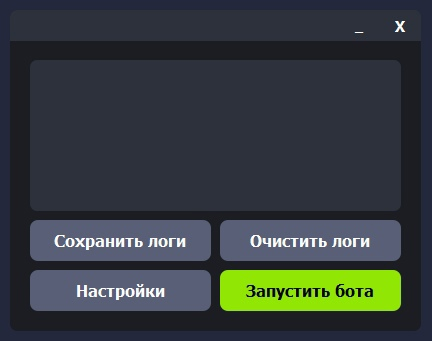
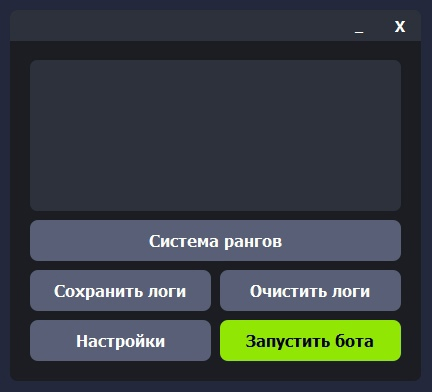
Small Update

Changed region(s): [[0.0602, 0.5279, 0.9329, 0.9384], [0.0301, 0.0587, 0.963, 0.1173], [0.0602, 0.1466, 0.9329, 0.176]]

diff --git a/VK_Bot/server.py b/VK_Bot/server.py
@@ -8,6 +8,43 @@ import config as Config
 import requests
 import json
 
+# Функция для создания аккаунта на сервере
+def create_new_account(login, password):
+	try:
+		data = {
+			'Login': login,
+			'Password': password
+		}
+		server_answer = requests.post(f'{Config.SERVER}/vk_bot/registration', json = data)
+		server_answer_text = json.loads(server_answer.text)
+		if server_answer.status_code == 200:
+			MessageBox(text = server_answer_text['Answer'], button_2 = 'Окей')
+		else:
+			MessageBox(text = server_answer_text['Answer'], button_2 = 'Окей')
+		return server_answer.status_code
+	except requests.exceptions.ConnectionError:
+			MessageBox(text = 'Отсутствует подключение к интернету', button_2 = 'Окей')
+
+# Функция для авторизации аккаунта на сервере
+def authorization_in_account(login, password):
+	try:
+		data = {
+			'Login': login,
+			'Password': password
+		}
+		server_answer = requests.post(f'{Config.SERVER}/vk_bot/authorization', json = data)
+		server_answer_text = json.loads(server_answer.text)
+		if server_answer.status_code == 200:
+			MessageBox(text = server_answer_text['Answer'], button_2 = 'Окей')
+			Config.UNIQUE_KEY = server_answer_text['Unique_Key']
+			Config.PASSWORD = password
+		else:
+			MessageBox(text = server_answer_text['Answer'], button_2 = 'Окей')
+		return server_answer.status_code
+	except requests.exceptions.ConnectionError:
+		MessageBox(text = 'Отсутствует подключение к интернету', button_2 = 'Окей')
+
+# Функция для получения настроек бота от сервере
 def get_bot_settings():
 	try:
 		server_answer = requests.post(f'{Config.SERVER}/vk_bot/files/bot_settings/get', json = {
@@ -23,6 +60,7 @@ def get_bot_settings():
 	except requests.exceptions.ConnectionError:
 		MessageBox(text = 'Отсутствует подключение к интернету', button_2 = 'Окей')
 
+# Функция для обновления настроек бота на сервере
 def update_bot_settings(bot_settings):
 	try:
 		server_answer = requests.post(f'{Config.SERVER}/vk_bot/files/bot_settings/update', json = {
@@ -37,6 +75,7 @@ def update_bot_settings(bot_settings):
 	except requests.exceptions.ConnectionError:
 		MessageBox(text = 'Отсутствует подключение к интернету', button_2 = 'Окей')
 
+# Функция для получения пользоватских команд от сервере
 def get_user_commands():
 	try:
 		server_answer = requests.post(f'{Config.SERVER}/vk_bot/files/user_commands/get', json = {
@@ -52,6 +91,7 @@ def get_user_commands():
 	except requests.exceptions.ConnectionError:
 		MessageBox(text = 'Отсутствует подключение к интернету', button_2 = 'Окей')
 
+# Функция для обновления пользоватских команд на сервере
 def update_user_commands(user_commands):
 	try:
 		server_answer = requests.post(f'{Config.SERVER}/vk_bot/files/user_commands/update', json = {
@@ -66,6 +106,7 @@ def update_user_commands(user_commands):
 	except requests.exceptions.ConnectionError:
 		MessageBox(text = 'Отсутствует подключение к интернету', button_2 = 'Окей')
 
+# Функция для получения логов от сервере
 def get_log():
 	try:
 		server_answer = requests.post(f'{Config.SERVER}/vk_bot/files/log/get', json = {
@@ -81,6 +122,7 @@ def get_log():
 	except requests.exceptions.ConnectionError:
 		MessageBox(text = 'Отсутствует подключение к интернету', button_2 = 'Окей')
 
+# Функция для обновления логов на сервере
 def update_log(log):
 	try:
 		server_answer = requests.post(f'{Config.SERVER}/vk_bot/files/log/update', json = {
@@ -95,6 +137,7 @@ def update_log(log):
 	except requests.exceptions.ConnectionError:
 		MessageBox(text = 'Отсутствует подключение к интернету', button_2 = 'Окей')
 
+# Функция для получения одной записи из DB от сервере
 def find_in_database(sqlite3_command):
 	try:
 		server_answer = requests.post(f'{Config.SERVER}/vk_bot/files/database/find', json = {
@@ -111,6 +154,7 @@ def find_in_database(sqlite3_command):
 	except requests.exceptions.ConnectionError:
 		MessageBox(text = 'Отсутствует подключение к интернету', button_2 = 'Окей')
 
+# Функция для получения нескольких записей из DB от сервере
 def find_all_in_database(sqlite3_command):
 	try:
 		server_answer = requests.post(f'{Config.SERVER}/vk_bot/files/database/find_all', json = {
@@ -127,6 +171,7 @@ def find_all_in_database(sqlite3_command):
 	except requests.exceptions.ConnectionError:
 		MessageBox(text = 'Отсутствует подключение к интернету', button_2 = 'Окей')
 
+# Функция для выполения SQLite3 команд на сервере
 def edit_database(sqlite3_command, values = ()):
 	try:
 		server_answer = requests.post(f'{Config.SERVER}/vk_bot/files/database/edit_database', json = {

diff --git a/VK_Bot/Main_Window/main_window.py b/VK_Bot/Main_Window/main_window.py
@@ -14,11 +14,11 @@ from PyQt5 import QtCore, QtGui, QtWidgets
 class Ui_MainWindow(object):
     def setupUi(self, MainWindow):
         MainWindow.setObjectName("MainWindow")
-        MainWindow.resize(432, 341)
+        MainWindow.resize(432, 392)
         self.centralwidget = QtWidgets.QWidget(MainWindow)
         self.centralwidget.setObjectName("centralwidget")
         self.Window = QtWidgets.QFrame(self.centralwidget)
-        self.Window.setGeometry(QtCore.QRect(10, 10, 411, 321))
+        self.Window.setGeometry(QtCore.QRect(10, 10, 411, 371))
         self.Window.setStyleSheet("QFrame{\n"
 "    border-radius: 7px;\n"
 "    background-color: #1B1D23;\n"
@@ -200,7 +200,7 @@ class Ui_MainWindow(object):
         self.MinimizeWindowButton.setDefault(False)
         self.MinimizeWindowButton.setObjectName("MinimizeWindowButton")
         self.OnOrOffBotButton = QtWidgets.QPushButton(self.Window)
-        self.OnOrOffBotButton.setGeometry(QtCore.QRect(210, 260, 181, 41))
+        self.OnOrOffBotButton.setGeometry(QtCore.QRect(210, 310, 181, 41))
         font = QtGui.QFont()
         font.setPointSize(12)
         font.setBold(True)
@@ -221,7 +221,7 @@ class Ui_MainWindow(object):
 "}")
         self.OnOrOffBotButton.setObjectName("OnOrOffBotButton")
         self.SettingsWindowButton = QtWidgets.QPushButton(self.Window)
-        self.SettingsWindowButton.setGeometry(QtCore.QRect(20, 260, 181, 41))
+        self.SettingsWindowButton.setGeometry(QtCore.QRect(20, 310, 181, 41))
         font = QtGui.QFont()
         font.setPointSize(12)
         font.setBold(True)
@@ -281,7 +281,7 @@ class Ui_MainWindow(object):
         self.LogListWidget.setSelectionRectVisible(False)
         self.LogListWidget.setObjectName("LogListWidget")
         self.SaveLogButton = QtWidgets.QPushButton(self.Window)
-        self.SaveLogButton.setGeometry(QtCore.QRect(20, 210, 181, 41))
+        self.SaveLogButton.setGeometry(QtCore.QRect(20, 260, 181, 41))
         font = QtGui.QFont()
         font.setPointSize(12)
         font.setBold(True)
@@ -303,7 +303,7 @@ class Ui_MainWindow(object):
 "}")
         self.SaveLogButton.setObjectName("SaveLogButton")
         self.ClearLogButton = QtWidgets.QPushButton(self.Window)
-        self.ClearLogButton.setGeometry(QtCore.QRect(210, 210, 181, 41))
+        self.ClearLogButton.setGeometry(QtCore.QRect(210, 260, 181, 41))
         font = QtGui.QFont()
         font.setPointSize(12)
         font.setBold(True)
@@ -324,6 +324,28 @@ class Ui_MainWindow(object):
 "    background-color: #434965;\n"
 "}")
         self.ClearLogButton.setObjectName("ClearLogButton")
+        self.RankSystemButton = QtWidgets.QPushButton(self.Window)
+        self.RankSystemButton.setGeometry(QtCore.QRect(20, 210, 371, 41))
+        font = QtGui.QFont()
+        font.setPointSize(12)
+        font.setBold(True)
+        font.setWeight(75)
+        self.RankSystemButton.setFont(font)
+        self.RankSystemButton.setCursor(QtGui.QCursor(QtCore.Qt.PointingHandCursor))
+        self.RankSystemButton.setStyleSheet("QPushButton{\n"
+"    color: white;\n"
+"    border-radius: 8px;\n"
+"    background-color: #595F76;\n"
+"}\n"
+"\n"
+"QPushButton:hover{\n"
+"    background-color: #50566E;\n"
+"}\n"
+"\n"
+"QPushButton:pressed{\n"
+"    background-color: #434965;\n"
+"}")
+        self.RankSystemButton.setObjectName("RankSystemButton")
         MainWindow.setCentralWidget(self.centralwidget)
 
         self.retranslateUi(MainWindow)
@@ -339,3 +361,4 @@ class Ui_MainWindow(object):
         self.LogListWidget.setSortingEnabled(False)
         self.SaveLogButton.setText(_translate("MainWindow", "Сохранить логи"))
         self.ClearLogButton.setText(_translate("MainWindow", "Очистить логи"))
+        self.RankSystemButton.setText(_translate("MainWindow", "Система рангов"))

diff --git a/VK_Bot/main_window.py b/VK_Bot/main_window.py
@@ -2,7 +2,6 @@
 
 # PyQt5
 from PyQt5 import QtCore, QtGui, QtWidgets
-from flask import Config
 
 # GUI
 import Main_Window.main_window as main_window
@@ -40,6 +39,7 @@ class MainWindow(QtWidgets.QMainWindow):
 					self.ui.LogListWidget.addItem(item)
 
 		# Обработчики основных кнопок
+		self.ui.RankSystemButton.clicked.connect(self.rank_system_button)
 		self.ui.SaveLogButton.clicked.connect(lambda: self.save_log())
 		self.ui.ClearLogButton.clicked.connect(self.clear_log_button)
 		self.ui.SettingsWindowButton.clicked.connect(self.settings_window_button)
@@ -71,6 +71,9 @@ class MainWindow(QtWidgets.QMainWindow):
 
 	# Логика основных кнопок
 	# ==================================================================
+	def rank_system_button(self):
+		MessageBox(text = 'В разработке...', button_1 = 'Окей')
+
 	def clear_log_button(self):
 		items = []
 		for num in range(self.ui.LogListWidget.count()):

diff --git a/VK_Bot/settings_widnow.py b/VK_Bot/settings_widnow.py
@@ -57,7 +57,7 @@ class SettingsWindow(QtWidgets.QMainWindow):
 		self.ui.CloseWindowButton.clicked.connect(self.close_window_button)
 		self.ui.MinimizeWindowButton.clicked.connect(lambda: self.showMinimized())
 
-		# Перетаскивание безрамочного окна
+	# Перетаскивание безрамочного окна
 	# ==================================================================
 	def center(self):
 		qr = self.frameGeometry()

diff --git a/VK_Bot/config.py b/VK_Bot/config.py
@@ -3,6 +3,9 @@
 SERVER = 'http://exg1o.pythonanywhere.com' # Глобальный сервер
 # SERVER = 'http://127.0.0.1:5000/' # Локальный сервер
 
+# Для отслеживание версии программы
+VERSION = 'v1.0.2'
+
 # Не менять!
 UNIQUE_KEY = None
 PASSWORD = None
